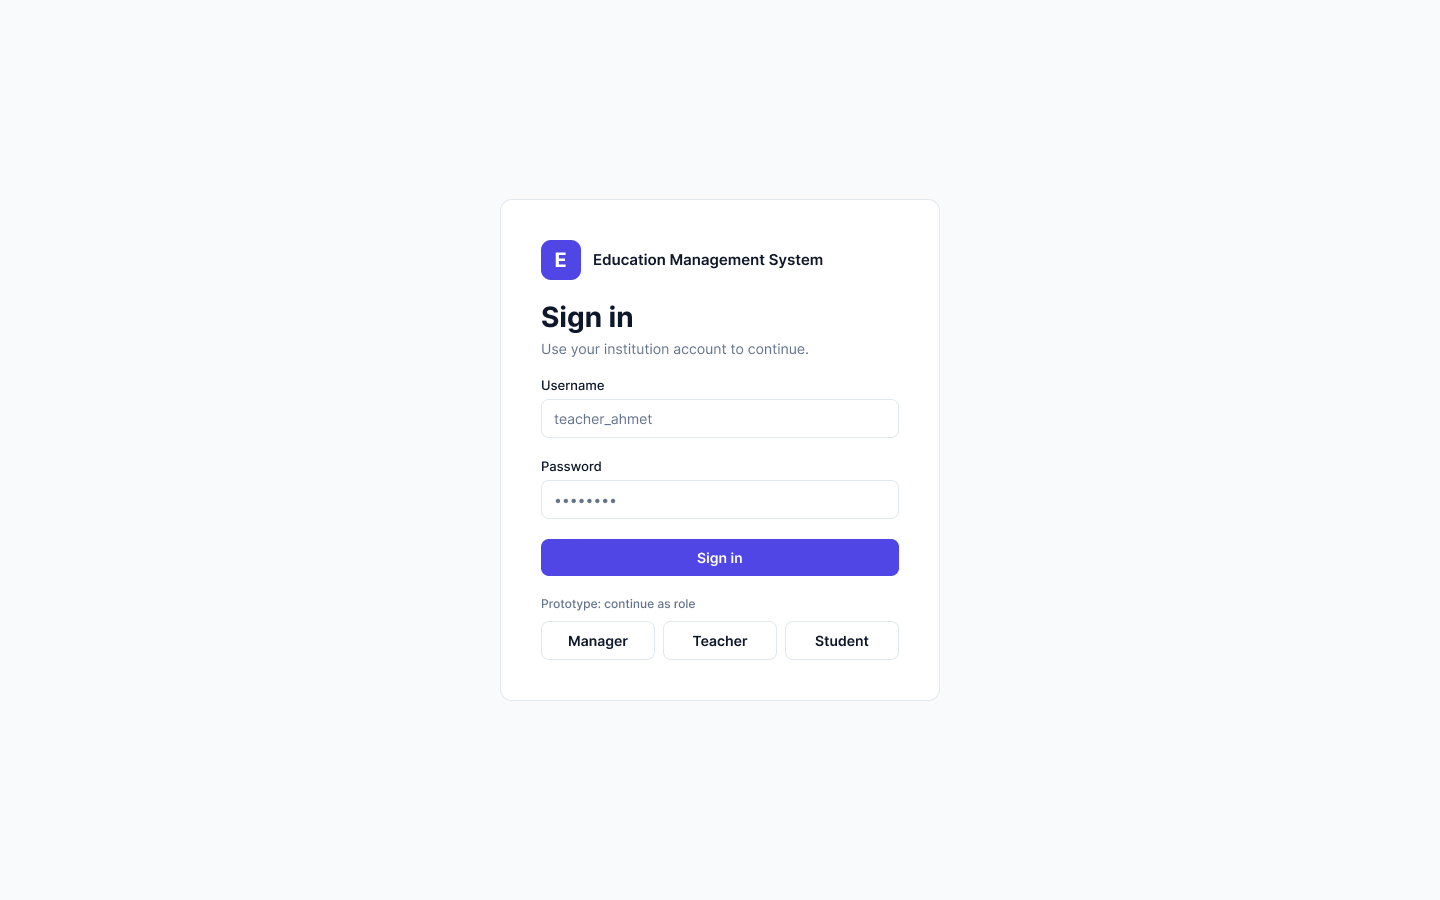
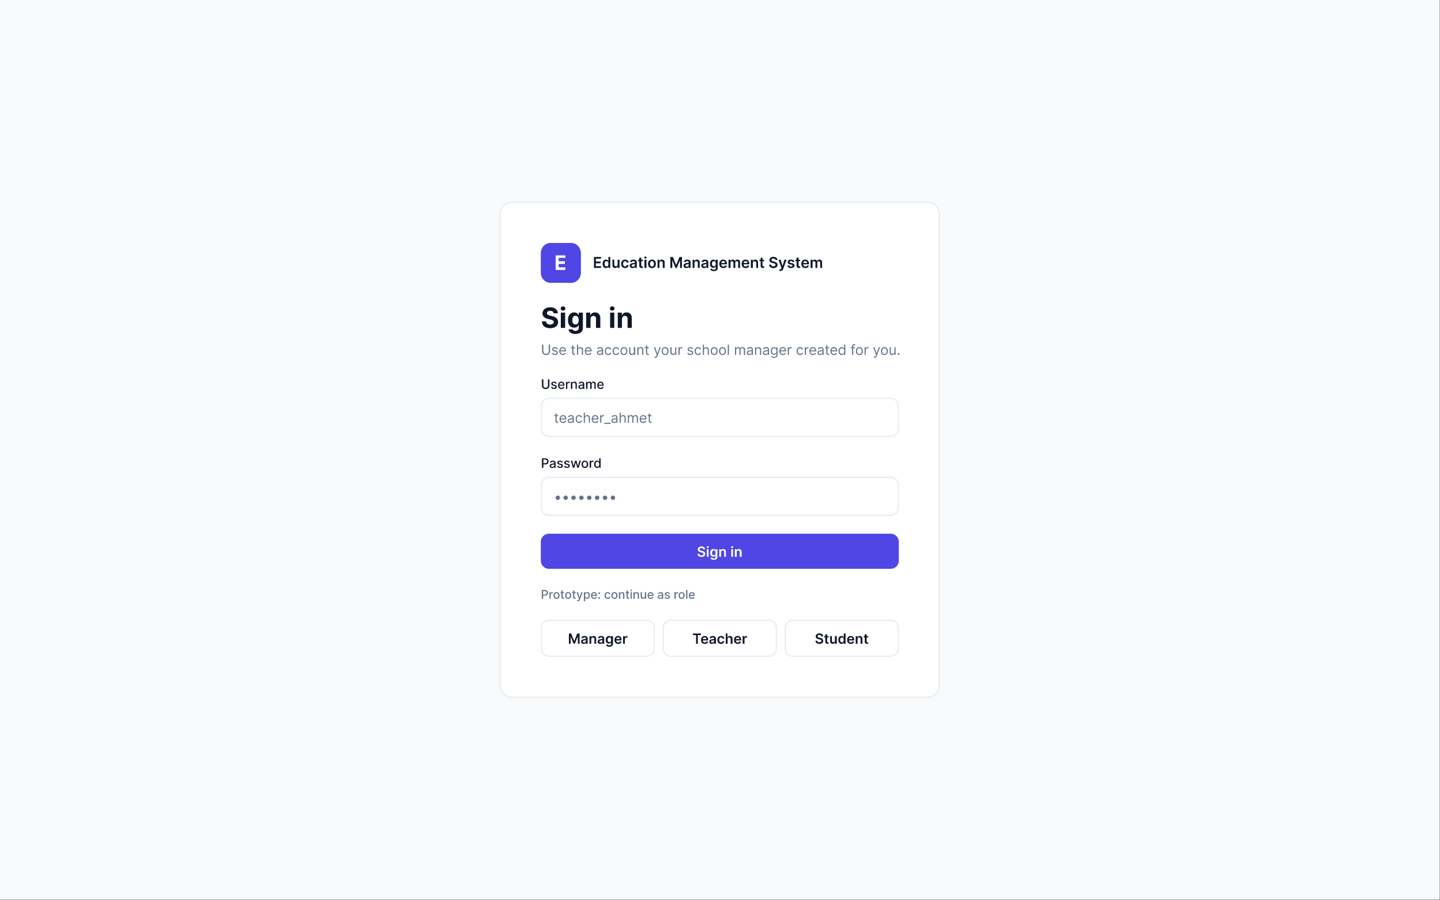
docs: update S2-04 prototypes to v2 after PO review
Rework the Figma prototype per Gökay's SCRUM-15 feedback: profile and
log out in the top bar, fuller role menus, student timetable and exam
results vs class average, teacher create-exam flow with weights and
My Classes timetable, manager user creation, teacher assignment with
weekly hours/days and a timetable planner. 15 screen previews, new
user-flow diagram and prototype links.

Refs #14

diff --git a/docs/Sprint-2/UI-UX/UI_UX_Prototypes.md b/docs/Sprint-2/UI-UX/UI_UX_Prototypes.md
@@ -3,75 +3,148 @@
 **Sprint:** 2 – Requirements, UI/UX & Architecture
 **Jira:** SCRUM-15 · **GitHub issue:** #14
 **Owner:** Muhammed Ökmen (Implementation Engineer)
+**Version:** v2 – reworked after the Product Owner's review of v1 (see [section 2](#2-po-feedback--what-changed-in-v2))
 
 ## Figma links (view-only)
 
 | Artifact | Link |
 | :--- | :--- |
-| Design file (screens + components) | https://www.figma.com/design/owRoLeG6SQryYmi6nz5RNy |
-| Clickable prototype (starts at Login) | https://www.figma.com/proto/owRoLeG6SQryYmi6nz5RNy?node-id=3-5&starting-point-node-id=3%3A5 |
-| User-flow diagram (FigJam) | https://www.figma.com/board/3D3T8bv8pTcKKhDKpCCEPU |
+| Design file (page **"Prototype v2 (PO feedback)"**) | https://www.figma.com/design/owRoLeG6SQryYmi6nz5RNy |
+| Clickable prototype v2 (starts at Login) | https://www.figma.com/proto/owRoLeG6SQryYmi6nz5RNy?node-id=35-7385&starting-point-node-id=35%3A7385 |
+| Clickable prototype v1 (kept for history) | https://www.figma.com/proto/owRoLeG6SQryYmi6nz5RNy?node-id=3-5&starting-point-node-id=3%3A5 |
+| User-flow diagram v1 (FigJam) | https://www.figma.com/board/3D3T8bv8pTcKKhDKpCCEPU |
 
-Exported previews of every screen and the user-flow diagram are in this folder, so the deliverable can be reviewed without opening Figma.
+Exported previews of all 15 screens and the v2 user-flow diagram are in this folder, so the deliverable can be reviewed without opening Figma.
+
+**How to use the prototype:** click buttons, menu items and **Log out** to move between screens. The keyboard **→ / ←** arrows step through all 15 screens in order. The **Flows** list (top left in the prototype viewer) has a starting point for Login and for each role.
 
 ---
 
 ## 1. Screens
 
-All screens are desktop web layouts (1440 × 900) for the planned React front end. Each one maps to a user story and an endpoint in the OpenAPI contract (`api/seng321-project.yaml`).
+All screens are desktop web layouts (1440 × 900) for the planned React front end. Every screen has the same shell:
+- a role-specific sidebar menu (aligned with the team's MOBS reference app; grey items are placeholders outside this prototype's scope);
+- a top bar with the term, the signed-in user's profile (name, role, initials) and **Log out** at the top right.
 
-| # | Screen | Role | User story | API |
-| :--- | :--- | :--- | :--- | :--- |
-| 01 | Login | All | US-01 | `POST /auth/login` |
-| 02 | Classes & Capacity + Teacher Assignment | Manager | US-02 | `GET /classes`, `POST /classes` |
-| 03 | Attendance & Grades + Exam Weight Configuration | Teacher | US-03 | `POST /students/{studentId}/grades` |
-| 04 | Report Card | Student | US-04 | `GET /students/{studentId}/report-card` |
+| # | Screen | Role | Story / API (contract on `main`) |
+| :--- | :--- | :--- | :--- |
+| 01 | Login | All | US-01 · `POST /auth/login` |
+| M1 | Dashboard | Manager | overview, quick actions |
+| M2 | Users & Assignments | Manager | planned: user management |
+| M3 | Create User (modal) | Manager | planned: user management |
+| M4 | Courses & Teacher Assignment | Manager | US-02 · planned: teacher assignment |
+| M5 | Classes & Capacity | Manager | US-02 · `GET /classes` (create class planned, #2) |
+| M6 | Timetable Planner | Manager | planned: timetable |
+| T1 | My Classes | Teacher | planned: teacher's classes and timetable |
+| T2 | Class Detail | Teacher | US-03 |
+| T3 | Create Exam (modal) | Teacher | US-03 · planned: exams and weights |
+| T4 | Exam Grade Entry | Teacher | US-03 · `POST /students/{studentId}/grades` |
+| T5 | Attendance | Teacher | US-03 · planned: attendance |
+| S1 | Timetable | Student | planned: timetable |
+| S2 | Exam Results | Student | US-04 · planned: per-exam results with class average |
+| S3 | Report Card | Student | US-04 · `GET /students/{studentId}/report-card` |
+
+"Planned" means the screen needs an endpoint that is not in `api/seng321-project.yaml` yet. These are listed so they can be added to the API contract in a later sprint.
 
 ### 01 – Login
 ![Login](screens/01-login.png)
 
-- Username and password form; on success the user lands on the screen for their role (MANAGER, TEACHER or STUDENT, taken from the JWT).
-- A hidden error banner layer shows the **401 – Invalid username or password** state.
-- The **Manager / Teacher / Student** shortcuts exist only to move through the prototype for each role.
+- Username and password. On success the user lands on their role's home screen (role taken from the JWT). A hidden layer shows the **401 – Invalid username or password** state.
+- **Manager / Teacher / Student** buttons exist only to jump into each role in the prototype.
 
-### 02 – Manager: Classes & Capacity and Teacher Assignment
-![Manager](screens/02-manager-classes-teacher-assignment.png)
+### Manager
 
-- Summary cards: total classes, total capacity, enrolled students, full classes.
-- Class table with capacity, enrollment, occupancy, assigned teacher and status (Available / Full / No teacher).
-- **Create class** panel: class name, capacity and teacher assignment. The helper text documents the rule *capacity must be greater than 0* (otherwise **400**).
+**M1 – Dashboard:** summary cards, quick actions (create student / teacher, assign teacher to a class, plan timetable, manage classes), attendance-risk list and term status.
+![M1 Dashboard](screens/m1-manager-dashboard.png)
 
-### 03 – Teacher: Attendance, Exam Weights and Grade Entry
-![Teacher](screens/03-teacher-attendance-grades.png)
+**M2 – Users & Assignments:** all accounts with role filters, search, status, *Reset password* and *Edit*. Old passwords are never shown; the manager sets a new one.
+![M2 Users](screens/m2-manager-users.png)
 
-- Exam weight configuration: midterm %, final %, what the makeup exam replaces and the pass threshold. A badge confirms the weights add up to 100 %.
-- Grade table: attendance (Present / Absent), midterm and final inputs, weighted average and result.
-- Validation states: a score outside 0–100 (e.g. `105`) is highlighted and rejected (**400**). Teachers can only grade classes assigned to them (**403**).
+**M3 – Create User:** the manager creates student and teacher accounts (there is no self sign-up). Student numbers are generated automatically (e.g. `26090001`). Teachers get a *Branch* field instead of student number and class.
+![M3 Create user](screens/m3-manager-create-user.png)
 
-### 04 – Student: Report Card
-![Student](screens/04-student-report-card.png)
+**M4 – Courses & Teacher Assignment:** courses with their teacher pool. The *Assign teacher to class* panel picks course, class and teacher, then sets **weekly hours** and **preferred days**. *Save & plan timetable* opens the planner.
+![M4 Courses and teacher assignment](screens/m4-manager-courses-teacher-assignment.png)
 
-- Summary cards: overall average, courses passed, attendance and pass threshold.
-- Per-course table: midterm (40 %), final (60 %), weighted average and Passed / Failed.
-- Formula shown on screen: `average = midterm × 0.40 + final × 0.60`; below the threshold → `isPassed: false`.
+**M5 – Classes & Capacity:** sections with capacity, enrollment, room, homeroom teacher and status (Available / Full / No teacher). The *Create class* form documents the rule *capacity > 0* (otherwise **400**).
+![M5 Classes and capacity](screens/m5-manager-classes-capacity.png)
+
+**M6 – Timetable Planner:** the assigned courses with placed / required hours, a weekly grid (Mon–Fri, 7 periods), and a conflict message when a teacher, class or room clash blocks a slot.
+![M6 Timetable planner](screens/m6-manager-timetable-planner.png)
+
+### Teacher
+
+**T1 – My Classes:** the teacher's sections (with *Open class*), the selected section's students and the teacher's own weekly timetable.
+![T1 My classes](screens/t1-teacher-my-classes.png)
+
+**T2 – Class Detail:** the exams of the class with their weights (total must be 100 %), grading progress, the student list and a **Create exam** button.
+![T2 Class detail](screens/t2-teacher-class-detail.png)
+
+**T3 – Create Exam:** exam name, type, **weight (%)**, date, max score and class. A warning appears when the weights would no longer add up to 100 %. *Create & enter grades* goes to grade entry.
+![T3 Create exam](screens/t3-teacher-create-exam.png)
+
+**T4 – Exam Grade Entry:** one score per student with attendance and save status. A score outside 0–100 (e.g. `105`) is rejected (**400**). Only the class's assigned teacher can grade (**403**). Students see a result once the teacher finalises it.
+![T4 Grade entry](screens/t4-teacher-exam-grade-entry.png)
+
+**T5 – Attendance:** class, date and period, then Present / Absent / Late / Excused per student, with total absence and an at-risk badge.
+![T5 Attendance](screens/t5-teacher-attendance.png)
+
+### Student
+
+**S1 – Timetable:** the student's weekly timetable (course, teacher, room).
+![S1 Timetable](screens/s1-student-timetable.png)
+
+**S2 – Exam Results:** every **finalised** exam result shown **next to the class average** (bar comparison and difference). Exams that are not finalised show as *Pending*.
+![S2 Exam results](screens/s2-student-exam-results.png)
+
+**S3 – Report Card:** per-course midterm (40 %), final (60 %), weighted average, **class average** and Passed / Failed. Formula: `average = midterm × 0.40 + final × 0.60`. Below the threshold → `isPassed: false`.
+![S3 Report card](screens/s3-student-report-card.png)
 
 ---
 
-## 2. Clickable prototype
+## 2. PO feedback → what changed in v2
 
-Flow starting point: **EMS Prototype – Start at Login**.
+The Product Owner (Gökay) reviewed v1 on Jira (SCRUM-15) and asked for the following. Each point is covered in v2:
+
+| Feedback | Where in v2 |
+| :--- | :--- |
+| Profile and **Log out** at the top right | Top bar on every screen (name, role, initials, Log out → Login) |
+| Fuller role menus (placeholders are fine) | Sidebars follow the MOBS reference menus; out-of-scope items are greyed placeholders |
+| Student: timetable | S1 |
+| Student: finalised exam results next to the class average | S2 (and a class-average column in S3) |
+| Teacher: open a class → **Create exam** | T1 → T2 → T3 |
+| Teacher: exam with name and percentage, then enter grades | T3 (name, weight %, 100 % check) → T4 |
+| Teacher: sections, students and own timetable in My Classes | T1 |
+| Manager: create students and teachers | M1 quick actions, M2, M3 |
+| Manager: assign teachers to classes | M4 |
+| Manager: weekly hours and days for the timetable | M4 (weekly hours, preferred days) → M6 |
+
+This also settles the v1 review question about who owns exam weights: the **teacher** sets each exam's weight when creating it (T3). The manager menu keeps *Grade Weights* only as a placeholder.
+
+---
+
+## 3. Clickable prototype – main paths
 
 | From | Click | Goes to |
 | :--- | :--- | :--- |
-| 01 Login | **Sign in** | 02 Manager |
-| 01 Login | **Manager** | 02 Manager |
-| 01 Login | **Teacher** | 03 Teacher |
-| 01 Login | **Student** | 04 Student |
-| 02 / 03 / 04 | **Log out** (sidebar) | 01 Login |
+| 01 Login | **Sign in** / **Manager** | M1 Dashboard |
+| 01 Login | **Teacher** | T1 My Classes |
+| 01 Login | **Student** | S2 Exam Results |
+| M1 / M2 | **+ New student**, **+ New teacher**, quick actions | M3 Create User, M4, M5, M6 |
+| M3 | **Create account** / **Cancel** | M2 Users |
+| M4 | **Save & plan timetable** | M6 Timetable Planner |
+| T1 | **Open class** | T2 Class Detail |
+| T2 | **+ Create exam** | T3 Create Exam |
+| T3 | **Create & enter grades** | T4 Grade Entry |
+| T2 | **Enter grades** | T4 Grade Entry |
+| T4 | **Save grades** / **Back to class** | T2 Class Detail |
+| S2 | **View report card** | S3 Report Card |
+| Any screen | Sidebar menu items | That role's screens |
+| Any screen | **Log out** (top right) | 01 Login |
 
 ---
 
-## 3. Role-based user flow
+## 4. Role-based user flow
 
 ![User flow](user-flow.png)
 
@@ -79,39 +152,48 @@ The same flow in Mermaid, so it can be read and versioned on GitHub:
 
 ```mermaid
 flowchart LR
-    start([Open app]) --> login[Login screen] --> valid{Credentials valid?}
+    start([Open app]) --> login[Login] --> valid{Credentials valid?}
     valid -->|No| err[Show 401 error] -.-> login
     valid -->|Yes| role{User role}
-    role -->|MANAGER| classes
+    role -->|MANAGER| dash
     role -->|TEACHER| myClasses
-    role -->|STUDENT| report
+    role -->|STUDENT| results
 
     subgraph Manager
-        classes[Classes and Capacity] --> createCls[Create class form] --> capOk{"Capacity > 0?"}
+        dash[Dashboard] --> users[Users] --> createUser[Create student / teacher]
+        dash --> courses[Courses & teacher assignment] --> hours[Set weekly hours and days] --> planner[Timetable planner] --> clash{Clash?}
+        clash -->|Yes| clashErr[Show conflict]
+        clash -->|No| publish[Publish timetable]
+        dash --> classes[Classes & capacity] --> capOk{"Capacity > 0?"}
         capOk -->|No| capErr[Show 400 error]
-        capOk -->|Yes| assign[Assign teacher]
+        capOk -->|Yes| classSaved[Class saved]
     end
 
     subgraph Teacher
-        myClasses[My Classes] --> assigned{Assigned to class?}
+        myClasses[My classes: sections, students, timetable] --> openClass[Class detail] --> assigned{Assigned to class?}
         assigned -->|No| forbid[Show 403 error]
-        assigned -->|Yes| attend[Attendance and Grades] --> weights[Configure exam weights] --> scoreOk{"Score 0-100?"}
+        assigned -->|Yes| createExam[Create exam: name + weight %] --> weightOk{"Weights = 100%?"}
+        weightOk -->|No| weightWarn[Show weight warning] -.-> createExam
+        weightOk -->|Yes| grades[Enter grades] --> scoreOk{"Score 0-100?"}
         scoreOk -->|No| scoreErr[Show 400 error]
-        scoreOk -->|Yes| saved[Grades saved]
+        scoreOk -->|Yes| finalised[Grades saved and finalised]
+        myClasses --> attendance[Take attendance]
     end
 
     subgraph Student
-        report[Report Card] --> avg[View weighted average]
+        results[Exam results vs class average] --> report[Report card]
+        results --> timetable[Weekly timetable]
     end
 
-    assign --> logout([Log out])
-    saved --> logout
-    avg --> logout
+    createUser --> logout([Log out])
+    publish --> logout
+    finalised --> logout
+    report --> logout
 ```
 
 ---
 
-## 4. Design system (in the Figma file)
+## 5. Design system (in the Figma file)
 
 **Color tokens** (Figma variables, collection `EMS Tokens`):
 
@@ -122,16 +204,24 @@ flowchart LR
 | `color/bg` / `color/surface` | `#F8FAFC` / `#FFFFFF` | Page and card backgrounds |
 | `color/border` | `#E2E8F0` | Card, table and input borders |
 | `color/text` / `color/text-muted` | `#0F172A` / `#64748B` | Body and secondary text |
-| `color/success` / `color/danger` | `#16A34A` / `#DC2626` | Passed / Failed, validation errors |
+| `color/success` / `color/danger` / `color/warning` | `#16A34A` / `#DC2626` / `#B45309` | Passed / Failed / warnings |
 
-**Reusable components:** `Button` (Primary / Secondary / Danger), `Input`, `NavItem` (Default / Active), `Badge` (Success / Danger / Neutral), `StatCard`. The screens use instances of these components, so the front end can map them one-to-one to React components.
+**Reusable components** (page "Prototype v2", frame *Components v2*):
+- `Button` (Primary / Secondary / Ghost / Danger)
+- `Input`
+- `NavItem` (Default / Active)
+- `Badge` (Success / Danger / Neutral / Warning)
+- `StatCard`
+- `TopBar` (Name / Role / Initials properties, Log out)
+
+The screens use instances of these components, so the front end can map them one-to-one to React components.
 
 **Typography:** Inter (Regular, Medium, Semi Bold, Bold).
 
 ---
 
-## 5. Acceptance criteria (#14)
+## 6. Acceptance criteria (#14)
 
-- [x] Key screens for all three roles built as clickable prototypes in Figma (Login, Manager classes/capacity and teacher assignment, Teacher attendance and grade/weight entry, Student report card).
+- [x] Key screens for all three roles built as clickable prototypes in Figma: 15 screens covering login, manager user / class / teacher-assignment / timetable management, teacher classes / exams / grades / attendance, and student timetable / results / report card.
 - [x] Role-based user-flow diagram showing screen navigation, including the 401 / 403 / 400 error paths.
 - [x] View-only Figma links, exported screen previews and the user-flow diagram added to the repository via pull request.
